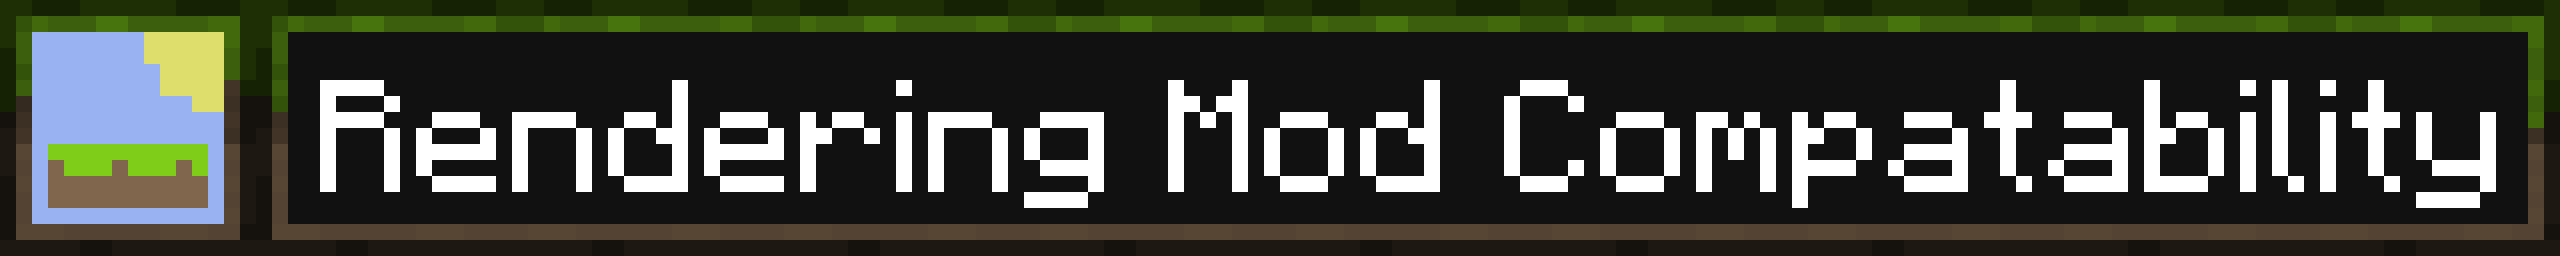
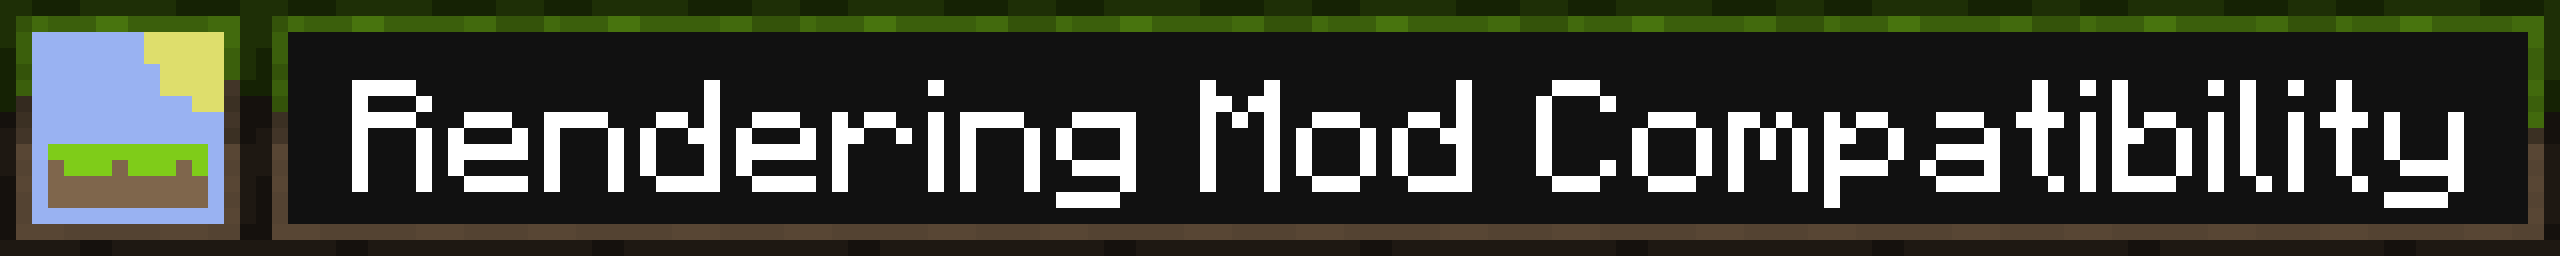
Remove "compatability" misspeling
It's actually compatibility. Commited with Gitkraken

Changed region(s): [[0.125, 0.3125, 1.0, 0.8125], [0.3438, 0.3125, 0.375, 0.375]]

diff --git a/README.md b/README.md
@@ -34,7 +34,7 @@ Any contribution is welcome, be it using the mod, reporting bugs or contributing
 4) Unless the code is taken directly from CC: Tweaked, `lua` code is offlimits from alteration. If you wish to contribute your changes to the in game rom please contribute upstream at [CC-Tweaked](https://github.com/cc-tweaked/CC-Tweaked).
 5) Branches should be named in this format `mc-<major ver.>.x/<specific-mc-ver.>`
 
-<img src="readme-assets/renderingmodcompat.png" alt="Rendering Mod Compatability" width="37.5%"/>
+<img src="readme-assets/renderingmodcompat.png" alt="Rendering Mod Compatibility" width="37.5%"/>
 
 * [ YES ] [Sodium](https://www.curseforge.com/minecraft/mc-mods/sodium)
 * [ YES ] [OptiFabric](https://www.curseforge.com/minecraft/mc-mods/optifabric)
